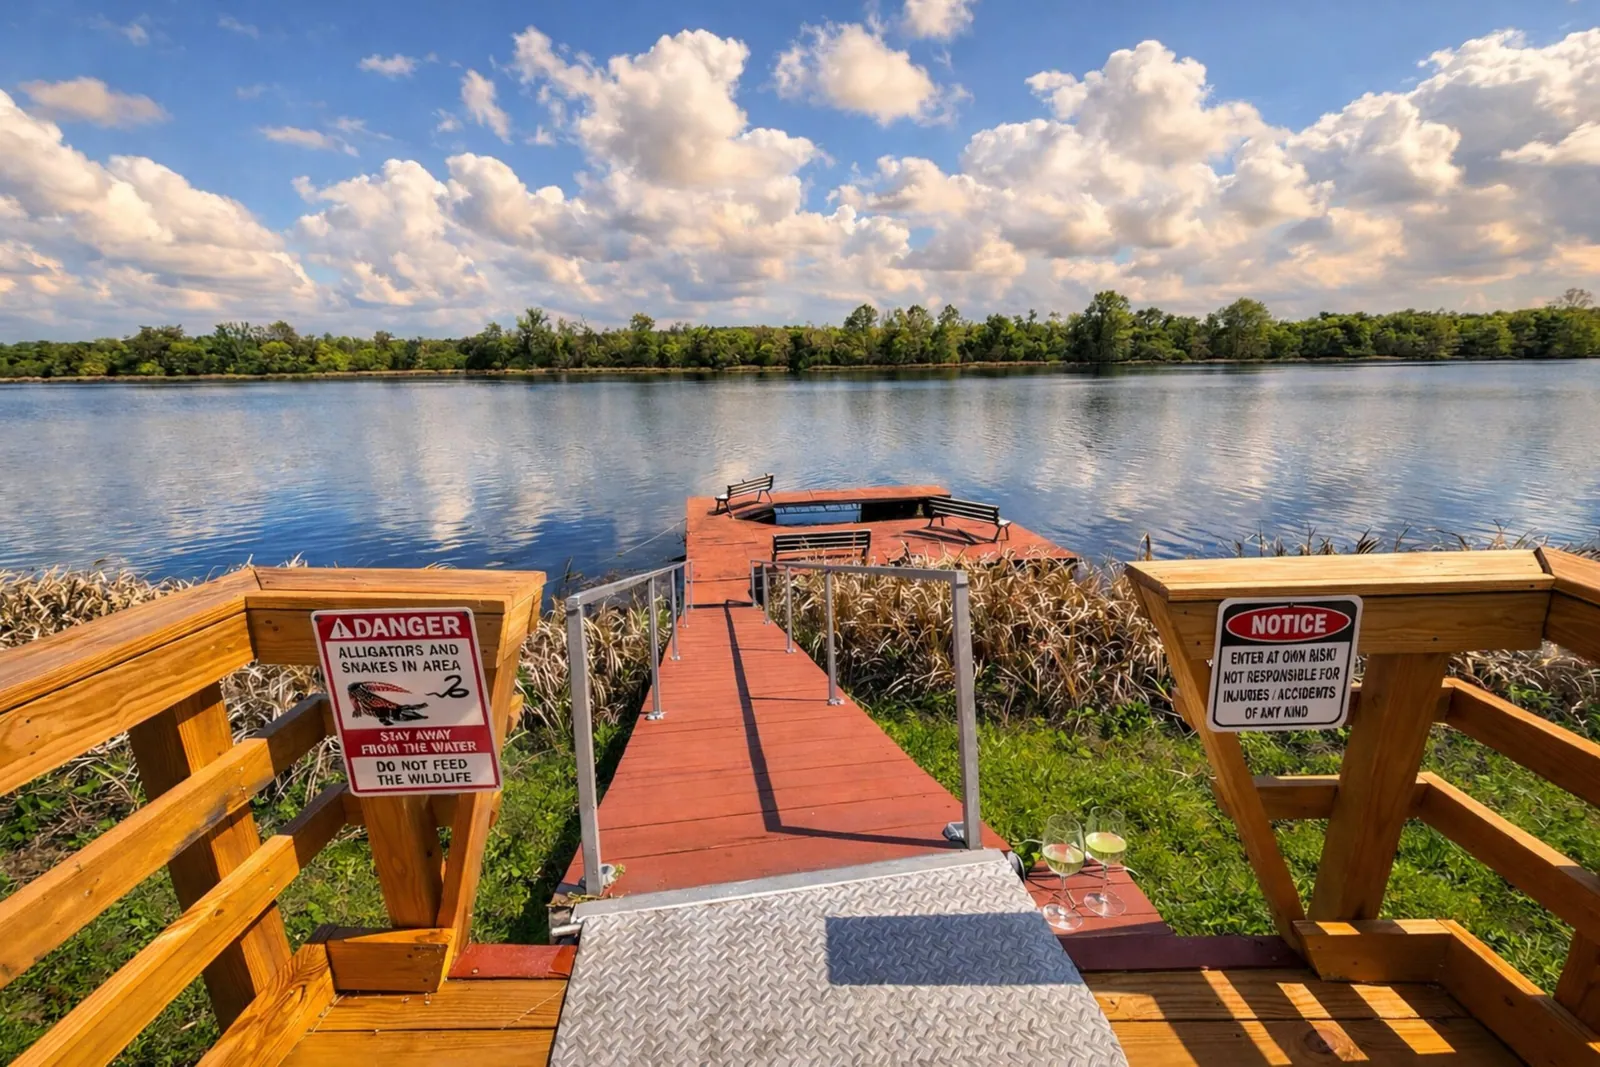
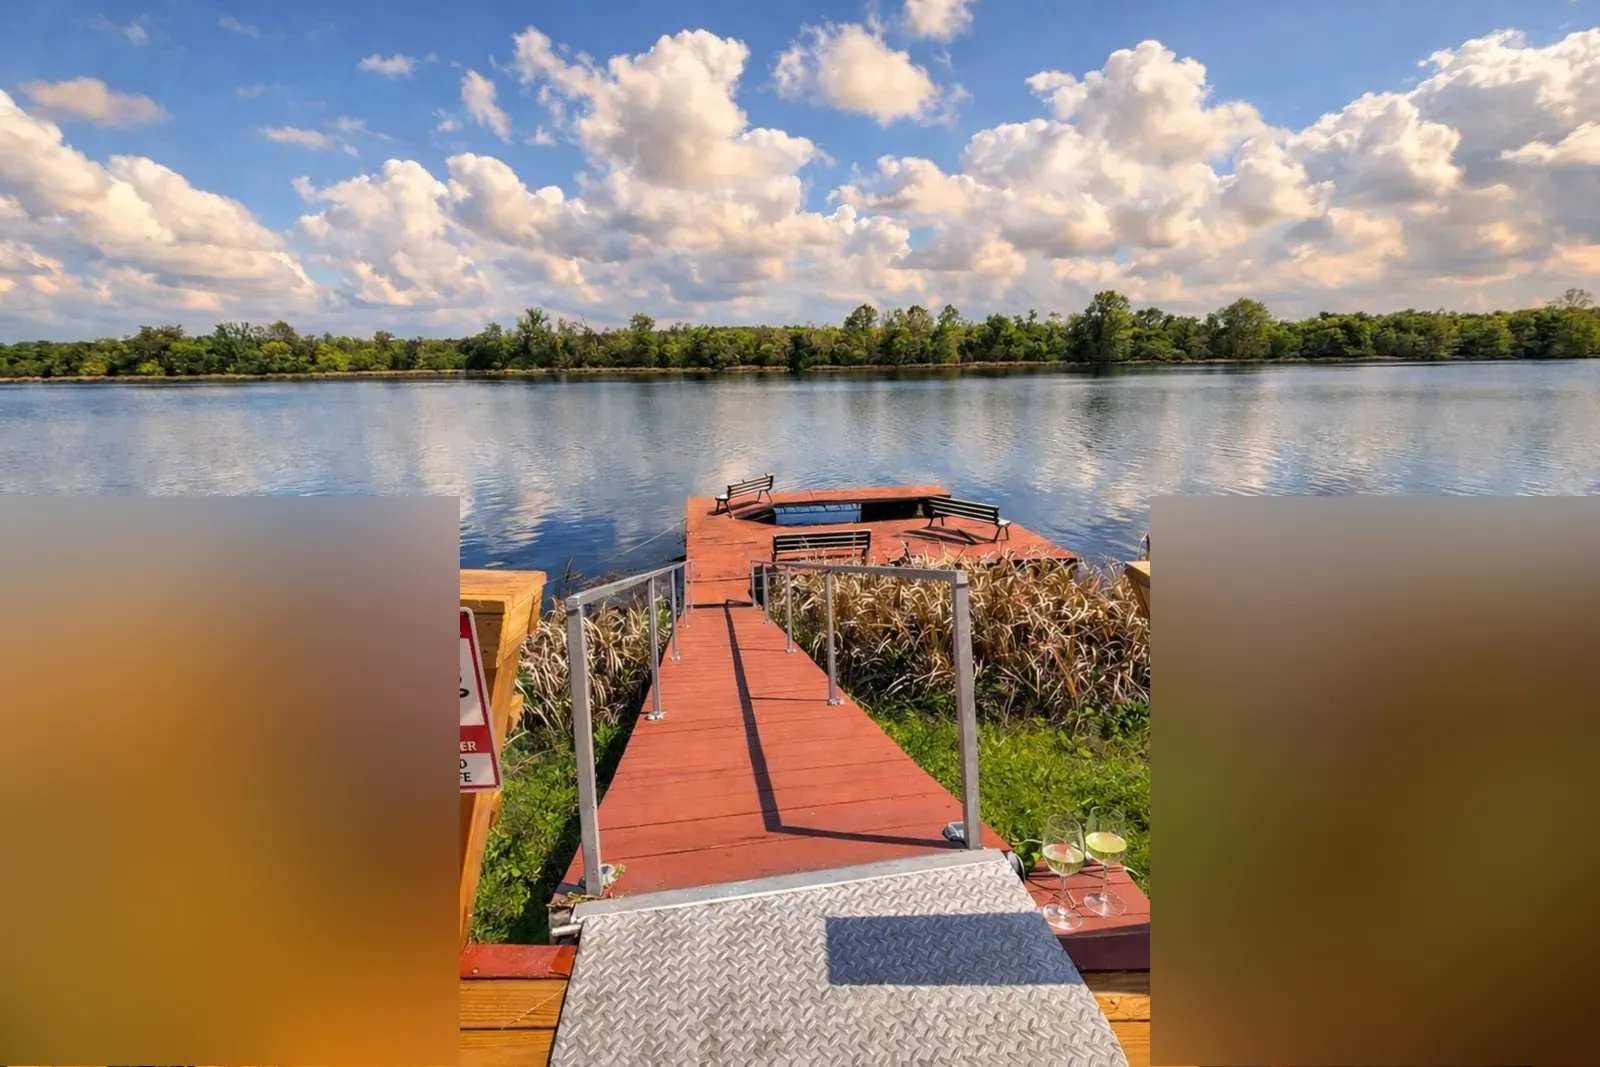
fix: blur dock warning signs, tighten gallery spacing, add bedroom to entire-house
- Blur alligator/notice warning signs on dock photo (upstairs_30 and
  its twin downstairs_12) across all three WebP sizes
- StayGallery: reduce top padding from py-14/py-20 to pt-2/pt-4 to
  close the gap between the booking section and gallery header
- entire-house listing: add upstairs-terrace_18 (two-bed river-view
  bedroom) as Bedroom 3 thumbnail in the Where You Sleep section;
  add to duplicatePhotos to prevent homepage pool duplication

Changed region(s): [[0.0, 0.4639, 0.3125, 1.0], [0.7188, 0.4639, 1.0, 1.0]]

diff --git a/src/components/StayGallery.tsx b/src/components/StayGallery.tsx
@@ -30,7 +30,7 @@ export default function StayGallery({ stay }: { stay: Accommodation }) {
     setLightbox(i => (i === null ? null : (i + dir + shown.length) % shown.length));
 
   return (
-    <section className="py-14 md:py-20 bg-ivory">
+    <section className="pt-2 pb-14 md:pt-4 md:pb-20 bg-ivory">
       <div className="max-w-7xl mx-auto px-4 sm:px-6 lg:px-8">
         <p className="font-manrope text-[10px] tracking-[0.3em] uppercase text-clay mb-4">
           The Gallery
